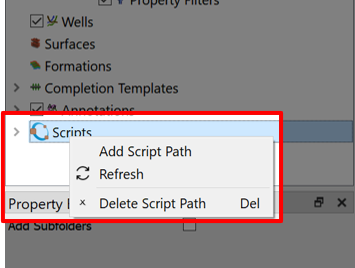
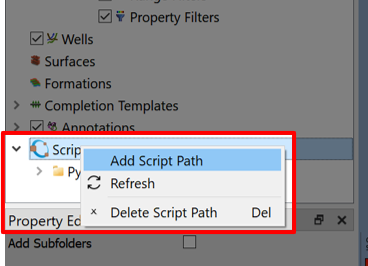
Added some octave pictures

diff --git a/tutorials/post-prosessing-with-octave/Resources/octave-scripts/TimeDiff_AllDynamic.m b/tutorials/post-prosessing-with-octave/Resources/octave-scripts/TimeDiff_AllDynamic.m
@@ -1,0 +1,39 @@
+# Created by hhgs July 2014
+#-----------------------------------------------------------------------------------
+# For working in a standalone Octave session with ResInsight data, 
+#  -> set "addpath" active to the riOctave-functions (and to script folder if needed)
+#
+# For resinsight:
+#addpath("/project/res/x86_64_RH_6/share/Resinsight/jenkins_master");
+#
+# For resinsightdaily:
+#addpath("/project/res/x86_64_RH_6/share/Resinsight/jenkins_daily_install");
+#-----------------------------------------------------------------------------------
+
+
+# Find all dynamic properties
+
+Prop = riGetPropertyNames();
+numProp = rows(Prop);
+numDynamic = 1;
+
+# Find dynamic properties
+for i=1:numProp
+  if strcmp(Prop(i).PropType,"DynamicNative");	# 1 when equal "DynamicNative" properties
+    P_dynamic(numDynamic) = {Prop(i).PropName};
+    numDynamic++;
+  endif
+endfor
+
+# Calculate difference from time step 1
+for P = P_dynamic		
+  P1  = riGetActiveCellProperty(P);	# Load parameter
+
+  DIFF_P = P1;
+  for i=1:columns(P1) 
+    DIFF_P(:,i) = P1(:,i) - P1(:,1);
+  endfor
+
+  P_Name = ["Diff_dt_",P{1}];
+  riSetActiveCellProperty(DIFF_P,P_Name);
+end

diff --git a/tutorials/post-prosessing-with-octave/Resources/octave-scripts/TimeDiff_PRESSURE.m b/tutorials/post-prosessing-with-octave/Resources/octave-scripts/TimeDiff_PRESSURE.m
@@ -1,0 +1,24 @@
+# Created by hhgs July 2014
+#-----------------------------------------------------------------------------------
+# For working in a standalone Octave session with ResInsight data, 
+#  -> set "addpath" active to the riOctave-functions (and to script folder if needed)
+#
+# For resinsight:
+#addpath("/project/res/x86_64_RH_6/share/Resinsight/jenkins_master");
+#
+# For resinsightdaily:
+#addpath("/project/res/x86_64_RH_6/share/Resinsight/jenkins_daily_install");
+#-----------------------------------------------------------------------------------
+
+
+
+PRESSURE = riGetActiveCellProperty("PRESSURE");
+
+PRESDIFF = PRESSURE;
+
+# Calculate the change in pressure with time compared to timestep 1
+for ts=1:columns(PRESSURE) 
+	PRESDIFF(:,ts) = PRESSURE(:,ts) - PRESSURE(:,1);
+endfor
+
+riSetActiveCellProperty(PRESDIFF, "PRES_dt_DIFF");

diff --git a/tutorials/post-prosessing-with-octave/Resources/octave-scripts/TimeDiff_SWAT.m b/tutorials/post-prosessing-with-octave/Resources/octave-scripts/TimeDiff_SWAT.m
@@ -1,0 +1,25 @@
+# Created by hhgs July 2014
+#-----------------------------------------------------------------------------------
+# For working in a standalone Octave session with ResInsight data, 
+#  -> set "addpath" active to the riOctave-functions (and to script folder if needed)
+#
+# For resinsight:
+#addpath("/project/res/x86_64_RH_6/share/Resinsight/jenkins_master");
+#
+# For resinsightdaily:
+#addpath("/project/res/x86_64_RH_6/share/Resinsight/jenkins_daily_install");
+#-----------------------------------------------------------------------------------
+
+
+
+SWAT = riGetActiveCellProperty("SWAT");
+
+SWATDIFF = SWAT;
+
+# Calculate the change in water saturation with time compared to timestep 1
+for i=1:columns(SWAT) 
+	SWATDIFF(:,i) = SWAT(:,i) - SWAT(:,1);
+endfor
+
+riSetActiveCellProperty(SWATDIFF, "SWAT_dt_DIFF");
+

diff --git a/tutorials/post-prosessing-with-octave/Resources/octave-scripts/TimeDiff_SOIL.m b/tutorials/post-prosessing-with-octave/Resources/octave-scripts/TimeDiff_SOIL.m
@@ -1,0 +1,25 @@
+# Created by hhgs July 2014
+#-----------------------------------------------------------------------------------
+# For working in a standalone Octave session with ResInsight data, 
+#  -> set "addpath" active to the riOctave-functions (and to script folder if needed)
+#
+# For resinsight:
+#addpath("/project/res/x86_64_RH_6/share/Resinsight/jenkins_master");
+#
+# For resinsightdaily:
+#addpath("/project/res/x86_64_RH_6/share/Resinsight/jenkins_daily_install");
+#-----------------------------------------------------------------------------------
+
+
+
+SOIL = riGetActiveCellProperty("SOIL");
+
+SOILDIFF = SOIL;
+
+# Calculate the change in oil saturation with time compared to timestep 1
+for i=1:columns(SOIL) 
+	SOILDIFF(:,i) = SOIL(:,i) - SOIL(:,1);
+endfor
+
+riSetActiveCellProperty(SOILDIFF, "SOIL_dt_DIFF");
+

diff --git a/tutorials/post-prosessing-with-octave/Resources/octave-scripts/TimeDiff_SGAS.m b/tutorials/post-prosessing-with-octave/Resources/octave-scripts/TimeDiff_SGAS.m
@@ -1,0 +1,24 @@
+# Created by hhgs July 2014
+#-----------------------------------------------------------------------------------
+# For working in a standalone Octave session with ResInsight data, 
+#  -> set "addpath" active to the riOctave-functions (and to script folder if needed)
+#
+# For resinsight:
+#addpath("/project/res/x86_64_RH_6/share/Resinsight/jenkins_master");
+#
+# For resinsightdaily:
+#addpath("/project/res/x86_64_RH_6/share/Resinsight/jenkins_daily_install");
+#-----------------------------------------------------------------------------------
+
+
+SGAS = riGetActiveCellProperty("SGAS");
+
+SGASDIFF = SGAS;
+
+# Calculate the change in gas saturation with time compared to timestep 1
+for i=1:columns(SGAS) 
+	SGASDIFF(:,i) = SGAS(:,i) - SGAS(:,1);
+endfor
+
+riSetActiveCellProperty(SGASDIFF, "SGAS_dt_DIFF");
+

diff --git a/tutorials/post-prosessing-with-octave/post-processing-with-octave.md b/tutorials/post-prosessing-with-octave/post-processing-with-octave.md
@@ -6,17 +6,27 @@
 
 First, import the Eclipse case by selecting the "Import Eclipse Files" and navigating to the Eclipse Files, in this case the "grid-visualization".
 
-
-
-## Step 2. Locate Octave Script 
-
-### (Optional) - If Octave is not already installed on your system
+### Step 2. (Optional) - If Octave is not already installed on your system
 Follow the link in [References](#references) 
 
+## Step 3. Import Octave Script paths 
 ![Image](Resources/Pictures/add_script_path.png)
 
-By right-clicking the **Scripts** menu and selecting "Add Script Path", then locate Octave Script `post-processing-with-octave/TimeDiff_SOIL.m`.
+By right-clicking the **Scripts** menu in the Project Tree and selecting "Add Script Path", then locate Octave Script `post-processing-with-octave/Resources/octave-scripts`.
+
+## Step 4. Executing the Script
+
+![Image](Resources/Pictures/execute.png)
+
+Execute the script by right-clicking the script and clicking "Execute". You can also observe in the [Process Monitor](../graphical-user-interface/graphical-user-interface.md#process-monitor) that the script has been completed.
+
+## Step 5. Visualizing the results from the post-processing step.
+
+## Step 6. Export to GRDECL text-file
+
 
 
 ## References
 [ResInsight install instructions](https://resinsight.org/getting-started/download-and-install/)
+
+For more Equinor internal scripts, see the following file system location: `/project/res/share/riOctaveScripts`
